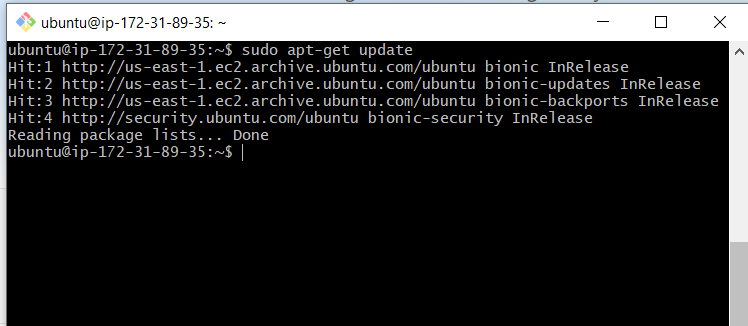
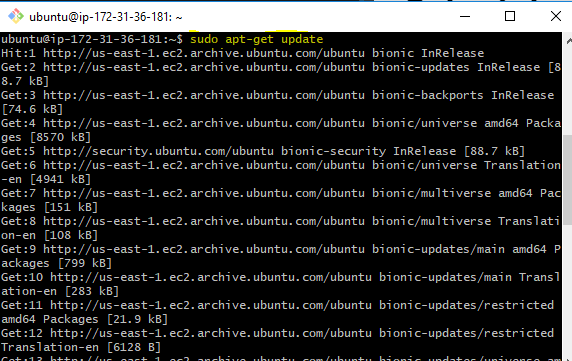
meh

diff --git a/tarea-01-jon.md b/tarea-01-jon.md
@@ -1,7 +1,11 @@
-1. Conectarse a nuestra maquina por ssh
+# 1. Conectarse a nuestra maquina por ssh y habilitar http
 Yo lo voy a hacer desde la terminal MINGW, Primero de todo me conecto a mi maquina con la clave publica del servidor
-<img src="images/jon/captura01.png">
+![](images/jon/captura01.png)
+Lo de habilitar el http es en el apartado ***Security groups*** una vez dentro en la pestaña ***Inbound*** tenemos que añadir una regla que sea el protocolo http escuchando por el puerto 80, en mi caso ya me lo venia hecho por defecto, al crear la maquina
+![](images/jon/captura03.png)
 
-2. Instalacion de Apache2
+# 2. Instalacion de Apache2
 Antes de instalar nada actualizaremos los repositorios
-<img src="images/jon/captura02.png">
+![](images/jon/captura02.png)
+y ahora instalaremos el servidor apache con el siguiente comando:
+![](images/jon/captura04.png)
